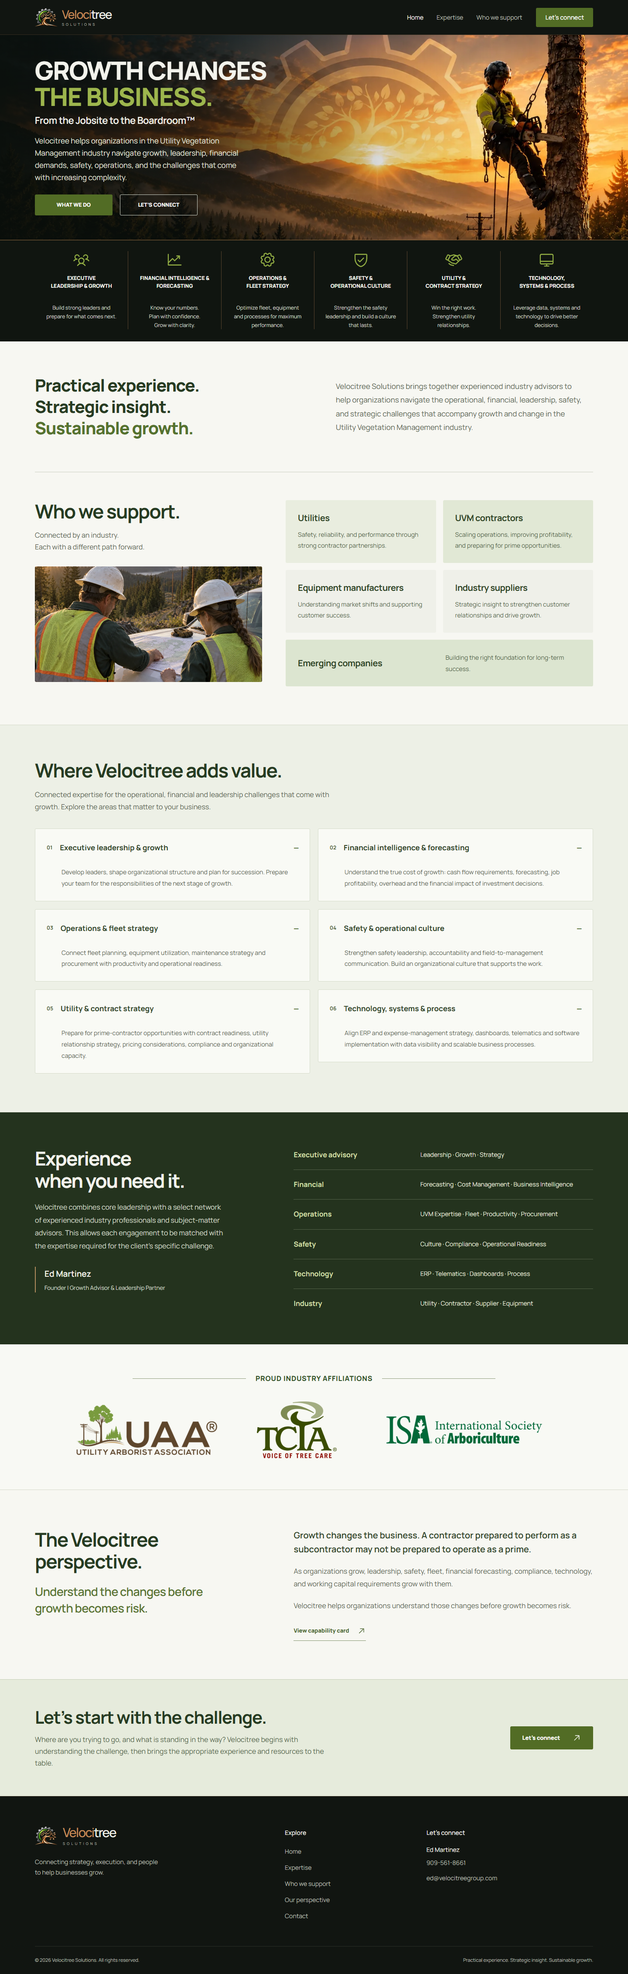
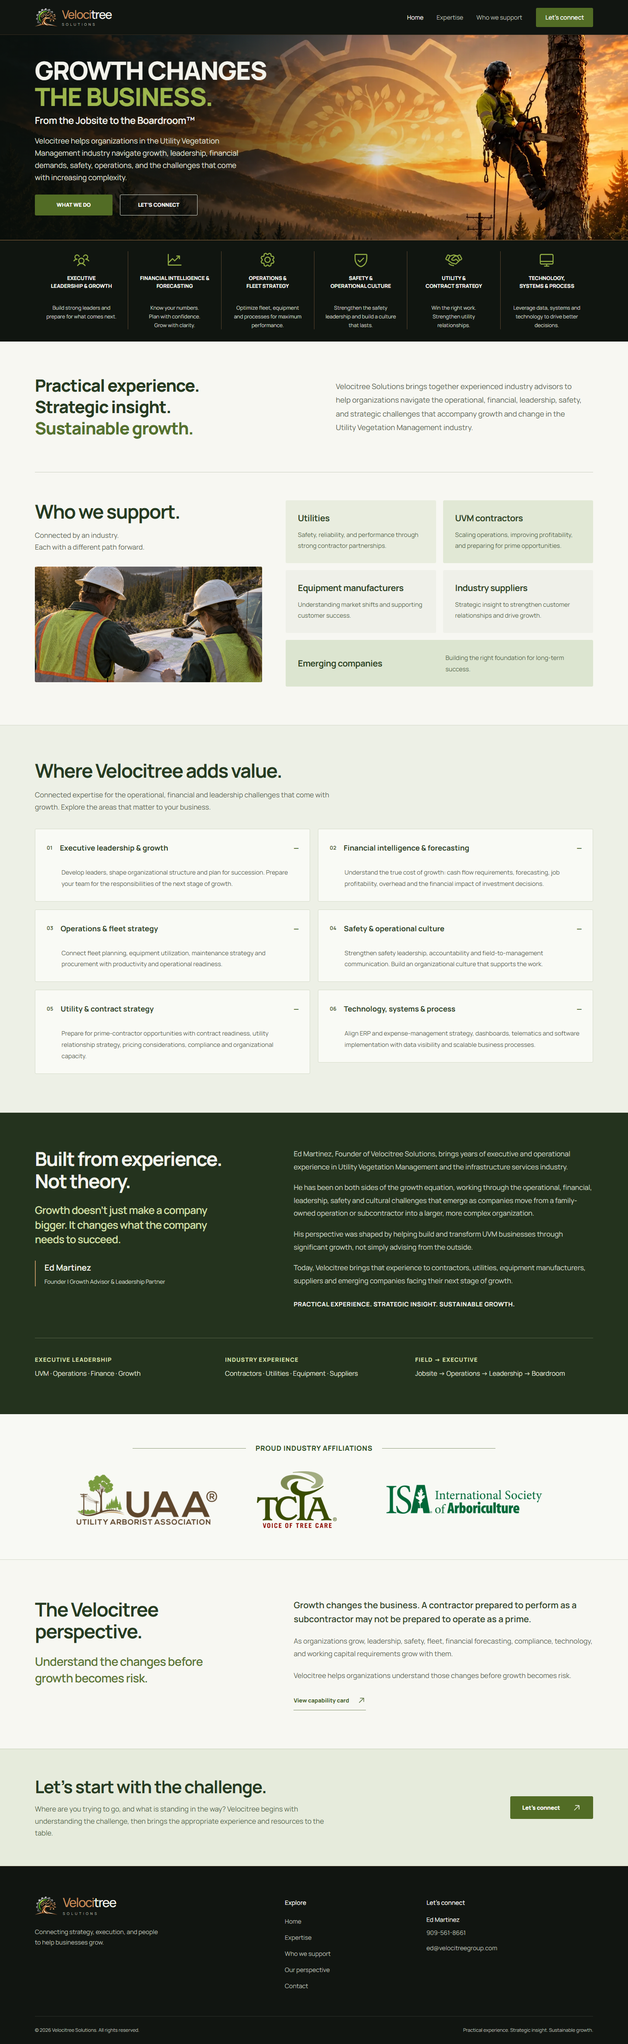
experience copy update

Changed region(s): [[0.0, 0.0, 1.0, 0.7475], [0.0, 0.7787, 1.0, 0.9655], [0.4688, 0.7787, 0.9375, 0.841]]

diff --git a/velocitree/preview/velocitree-home-preview.html b/velocitree/preview/velocitree-home-preview.html
@@ -195,16 +195,17 @@
   .vts-home .vts-experience { background: #24331e; color: #f3f3ec; padding-block: 80px; }
   .vts-home .vts-experience__layout { display: grid; grid-template-columns: .85fr 1.15fr; gap: 86px; align-items: start; }
   .vts-home .vts-experience .vts-section-title { color: #f3f3ec !important; }
-  .vts-home .vts-experience__intro { color: #d0d8c6 !important; max-width: 440px; font-size: 16px; margin-top: 22px; line-height: 1.85; }
+  .vts-home .vts-experience__copy p { color: #d0d8c6 !important; font-size: 16px; line-height: 1.85; margin-bottom: 18px; }
+  .vts-home .vts-experience__copy p:last-child { margin-bottom: 0; }
+  .vts-home .vts-experience__statement { margin-top: 25px; max-width: 420px; color: #d1dfa8 !important; font-size: 24px; font-weight: 600; line-height: 1.4; letter-spacing: -.03em; }
+  .vts-home .vts-experience__copy .vts-experience__promise { color: #f3f3ec !important; font-size: 14px; font-weight: 700; letter-spacing: .04em; text-transform: uppercase; margin-top: 26px; }
   .vts-home .vts-experience__advisor { margin-top: 32px; padding-left: 20px; border-left: 2px solid #b08b5d; }
   .vts-home .vts-experience__advisor strong { display: block; font-size: 19px; font-weight: 600; }
   .vts-home .vts-experience__advisor p { color: #d0d8c6 !important; font-size: 13px; margin-top: 5px; }
-  .vts-home .vts-network { display: grid; }
-  .vts-home .vts-network > div { display: grid; grid-template-columns: .8fr 1.2fr; gap: 26px; padding-block: 20px; border-bottom: 1px solid #526047; }
-  .vts-home .vts-network > div:first-child { padding-top: 4px; }
-  .vts-home .vts-network > div:last-child { border-bottom: 0; padding-bottom: 0; }
-  .vts-home .vts-network dt { color: #d1dfa8 !important; font-size: 16px; font-weight: 700; }
-  .vts-home .vts-network dd { color: #e0e5d8 !important; font-size: 14px; line-height: 1.8; }
+  .vts-home .vts-credentials { display: grid; grid-template-columns: repeat(3, 1fr); gap: 28px; margin-top: 64px; padding-top: 40px; border-top: 1px solid #526047; }
+  .vts-home .vts-credentials > div { min-width: 0; }
+  .vts-home .vts-credentials dt { color: #d1dfa8 !important; font-size: 13px; font-weight: 800; letter-spacing: .09em; line-height: 1.4; text-transform: uppercase; }
+  .vts-home .vts-credentials dd { color: #e0e5d8 !important; font-size: 15px; line-height: 1.7; margin-top: 10px; }
   .vts-home .vts-affiliations { padding-block: 68px 72px; background: #f8f9f4; border-bottom: 1px solid #d5dacb; }
   .vts-home .vts-affiliations__heading { display: flex; align-items: center; justify-content: center; gap: 22px; margin-bottom: 42px; }
   .vts-home .vts-affiliations__heading::before, .vts-home .vts-affiliations__heading::after { content: ''; flex: 1; max-width: 260px; height: 1px; background: #8f9d7b; }
@@ -271,7 +272,9 @@
     .vts-home .vts-expertise__item summary::after { right: 18px; }
     .vts-home .vts-expertise__item h3 { font-size: 16px; }
     .vts-home .vts-expertise__item p { padding: 0 23px 24px 49px; }
-    .vts-home .vts-experience__intro { font-size: 15px; }
+    .vts-home .vts-experience__copy p { font-size: 15px; }
+    .vts-home .vts-experience__statement { font-size: 21px; margin-top: 18px; }
+    .vts-home .vts-credentials { grid-template-columns: 1fr; gap: 22px; margin-top: 40px; padding-top: 30px; }
     .vts-home .vts-network > div { grid-template-columns: 1fr; gap: 6px; }
     .vts-home .vts-affiliations { padding-block: 50px; }
     .vts-home .vts-affiliations__heading { gap: 13px; margin-bottom: 30px; }
@@ -315,10 +318,10 @@
     .vts-hero .vts-hero__button { min-width: 145px; padding-inline: 17px; }
   }
   @media (max-width: 767px) {
-    .vts-hero .vts-hero__wrap { width: calc(100% - 40px); min-height: 690px; align-items: flex-start; padding-block: 37px 285px; }
+    .vts-hero .vts-hero__wrap { width: calc(100% - 40px); min-height: 840px; align-items: flex-end; padding-block: 150px 34px; }
     .vts-hero .vts-hero__copy { max-width: 100%; width: 100%; }
     .vts-hero .vts-hero__image { object-position: 85% 50%; }
-    .vts-hero::before { background: linear-gradient(180deg, rgba(10,15,11,.97), rgba(10,15,11,.9) 44%, rgba(10,15,11,.12) 75%, rgba(10,15,11,.25)); }
+    .vts-hero::before { background: linear-gradient(180deg, rgba(10,15,11,.42), rgba(10,15,11,.14) 22%, rgba(10,15,11,.16) 42%, rgba(10,15,11,.72) 55%, rgba(10,15,11,.95) 66%, rgba(10,15,11,.97)); }
     .vts-hero .vts-hero__title { font-size: clamp(30px, 8vw, 49px); line-height: 1.08; letter-spacing: -.035em; }
     .vts-hero .vts-hero__tagline { font-size: clamp(14px, 3.8vw, 20px); margin-top: 10px; }
     .vts-hero .vts-hero__description { max-width: 410px; font-size: 14px; line-height: 1.7; margin-top: 16px; }
@@ -481,19 +484,25 @@
   </section>
 
   <section class="vts-experience" aria-labelledby="vts-experience-title">
-    <div class="vts-wrap vts-experience__layout">
-      <div>
-        <h2 class="vts-section-title" id="vts-experience-title">Experience<br>when you need it.</h2>
-        <p class="vts-experience__intro">Velocitree combines core leadership with a select network of experienced industry professionals and subject-matter advisors. This allows each engagement to be matched with the expertise required for the client&rsquo;s specific challenge.</p>
-        <div class="vts-experience__advisor"><strong>Ed Martinez</strong><p>Founder | Growth Advisor &amp; Leadership Partner</p></div>
+    <div class="vts-wrap">
+      <div class="vts-experience__layout">
+        <div>
+          <h2 class="vts-section-title" id="vts-experience-title">Built from experience.<br>Not theory.</h2>
+          <p class="vts-experience__statement">Growth doesn&rsquo;t just make a company bigger. It changes what the company needs to succeed.</p>
+          <div class="vts-experience__advisor"><strong>Ed Martinez</strong><p>Founder | Growth Advisor &amp; Leadership Partner</p></div>
+        </div>
+        <div class="vts-experience__copy">
+          <p>Ed Martinez, Founder of Velocitree Solutions, brings years of executive and operational experience in Utility Vegetation Management and the infrastructure services industry.</p>
+          <p>He has been on both sides of the growth equation, working through the operational, financial, leadership, safety and cultural challenges that emerge as companies move from a family-owned operation or subcontractor into a larger, more complex organization.</p>
+          <p>His perspective was shaped by helping build and transform UVM businesses through significant growth, not simply advising from the outside.</p>
+          <p>Today, Velocitree brings that experience to contractors, utilities, equipment manufacturers, suppliers and emerging companies facing their next stage of growth.</p>
+          <p class="vts-experience__promise">Practical Experience. Strategic Insight. Sustainable Growth.</p>
+        </div>
       </div>
-      <dl class="vts-network">
-        <div><dt>Executive advisory</dt><dd>Leadership &middot; Growth &middot; Strategy</dd></div>
-        <div><dt>Financial</dt><dd>Forecasting &middot; Cost Management &middot; Business Intelligence</dd></div>
-        <div><dt>Operations</dt><dd>UVM Expertise &middot; Fleet &middot; Productivity &middot; Procurement</dd></div>
-        <div><dt>Safety</dt><dd>Culture &middot; Compliance &middot; Operational Readiness</dd></div>
-        <div><dt>Technology</dt><dd>ERP &middot; Telematics &middot; Dashboards &middot; Process</dd></div>
-        <div><dt>Industry</dt><dd>Utility &middot; Contractor &middot; Supplier &middot; Equipment</dd></div>
+      <dl class="vts-credentials">
+        <div><dt>Executive leadership</dt><dd>UVM &middot; Operations &middot; Finance &middot; Growth</dd></div>
+        <div><dt>Industry experience</dt><dd>Contractors &middot; Utilities &middot; Equipment &middot; Suppliers</dd></div>
+        <div><dt>Field &rarr; executive</dt><dd>Jobsite &rarr; Operations &rarr; Leadership &rarr; Boardroom</dd></div>
       </dl>
     </div>
   </section>

diff --git a/velocitree/home.html b/velocitree/home.html
@@ -58,16 +58,17 @@
   .vts-home .vts-experience { background: #24331e; color: #f3f3ec; padding-block: 80px; }
   .vts-home .vts-experience__layout { display: grid; grid-template-columns: .85fr 1.15fr; gap: 86px; align-items: start; }
   .vts-home .vts-experience .vts-section-title { color: #f3f3ec !important; }
-  .vts-home .vts-experience__intro { color: #d0d8c6 !important; max-width: 440px; font-size: 16px; margin-top: 22px; line-height: 1.85; }
+  .vts-home .vts-experience__copy p { color: #d0d8c6 !important; font-size: 16px; line-height: 1.85; margin-bottom: 18px; }
+  .vts-home .vts-experience__copy p:last-child { margin-bottom: 0; }
+  .vts-home .vts-experience__statement { margin-top: 25px; max-width: 420px; color: #d1dfa8 !important; font-size: 24px; font-weight: 600; line-height: 1.4; letter-spacing: -.03em; }
+  .vts-home .vts-experience__copy .vts-experience__promise { color: #f3f3ec !important; font-size: 14px; font-weight: 700; letter-spacing: .04em; text-transform: uppercase; margin-top: 26px; }
   .vts-home .vts-experience__advisor { margin-top: 32px; padding-left: 20px; border-left: 2px solid #b08b5d; }
   .vts-home .vts-experience__advisor strong { display: block; font-size: 19px; font-weight: 600; }
   .vts-home .vts-experience__advisor p { color: #d0d8c6 !important; font-size: 13px; margin-top: 5px; }
-  .vts-home .vts-network { display: grid; }
-  .vts-home .vts-network > div { display: grid; grid-template-columns: .8fr 1.2fr; gap: 26px; padding-block: 20px; border-bottom: 1px solid #526047; }
-  .vts-home .vts-network > div:first-child { padding-top: 4px; }
-  .vts-home .vts-network > div:last-child { border-bottom: 0; padding-bottom: 0; }
-  .vts-home .vts-network dt { color: #d1dfa8 !important; font-size: 16px; font-weight: 700; }
-  .vts-home .vts-network dd { color: #e0e5d8 !important; font-size: 14px; line-height: 1.8; }
+  .vts-home .vts-credentials { display: grid; grid-template-columns: repeat(3, 1fr); gap: 28px; margin-top: 64px; padding-top: 40px; border-top: 1px solid #526047; }
+  .vts-home .vts-credentials > div { min-width: 0; }
+  .vts-home .vts-credentials dt { color: #d1dfa8 !important; font-size: 13px; font-weight: 800; letter-spacing: .09em; line-height: 1.4; text-transform: uppercase; }
+  .vts-home .vts-credentials dd { color: #e0e5d8 !important; font-size: 15px; line-height: 1.7; margin-top: 10px; }
   .vts-home .vts-affiliations { padding-block: 68px 72px; background: #f8f9f4; border-bottom: 1px solid #d5dacb; }
   .vts-home .vts-affiliations__heading { display: flex; align-items: center; justify-content: center; gap: 22px; margin-bottom: 42px; }
   .vts-home .vts-affiliations__heading::before, .vts-home .vts-affiliations__heading::after { content: ''; flex: 1; max-width: 260px; height: 1px; background: #8f9d7b; }
@@ -134,7 +135,9 @@
     .vts-home .vts-expertise__item summary::after { right: 18px; }
     .vts-home .vts-expertise__item h3 { font-size: 16px; }
     .vts-home .vts-expertise__item p { padding: 0 23px 24px 49px; }
-    .vts-home .vts-experience__intro { font-size: 15px; }
+    .vts-home .vts-experience__copy p { font-size: 15px; }
+    .vts-home .vts-experience__statement { font-size: 21px; margin-top: 18px; }
+    .vts-home .vts-credentials { grid-template-columns: 1fr; gap: 22px; margin-top: 40px; padding-top: 30px; }
     .vts-home .vts-network > div { grid-template-columns: 1fr; gap: 6px; }
     .vts-home .vts-affiliations { padding-block: 50px; }
     .vts-home .vts-affiliations__heading { gap: 13px; margin-bottom: 30px; }
@@ -182,10 +185,10 @@
     .vts-hero .vts-hero__button { min-width: 145px; padding-inline: 17px; }
   }
   @media (max-width: 767px) {
-    .vts-hero .vts-hero__wrap { width: calc(100% - 40px); min-height: 690px; align-items: flex-start; padding-block: 37px 285px; }
+    .vts-hero .vts-hero__wrap { width: calc(100% - 40px); min-height: 840px; align-items: flex-end; padding-block: 150px 34px; }
     .vts-hero .vts-hero__copy { max-width: 100%; width: 100%; }
     .vts-hero .vts-hero__image { object-position: 85% 50%; }
-    .vts-hero::before { background: linear-gradient(180deg, rgba(10,15,11,.97), rgba(10,15,11,.9) 44%, rgba(10,15,11,.12) 75%, rgba(10,15,11,.25)); }
+    .vts-hero::before { background: linear-gradient(180deg, rgba(10,15,11,.42), rgba(10,15,11,.14) 22%, rgba(10,15,11,.16) 42%, rgba(10,15,11,.72) 55%, rgba(10,15,11,.95) 66%, rgba(10,15,11,.97)); }
     .vts-hero .vts-hero__title { font-size: clamp(30px, 8vw, 49px); line-height: 1.08; letter-spacing: -.035em; }
     .vts-hero .vts-hero__tagline { font-size: clamp(14px, 3.8vw, 20px); margin-top: 10px; }
     .vts-hero .vts-hero__description { max-width: 410px; font-size: 14px; line-height: 1.7; margin-top: 16px; }
@@ -267,19 +270,25 @@
   </section>
 
   <section class="vts-experience" aria-labelledby="vts-experience-title">
-    <div class="vts-wrap vts-experience__layout">
-      <div>
-        <h2 class="vts-section-title" id="vts-experience-title">Experience<br>when you need it.</h2>
-        <p class="vts-experience__intro">Velocitree combines core leadership with a select network of experienced industry professionals and subject-matter advisors. This allows each engagement to be matched with the expertise required for the client&rsquo;s specific challenge.</p>
-        <div class="vts-experience__advisor"><strong>Ed Martinez</strong><p>Founder | Growth Advisor &amp; Leadership Partner</p></div>
+    <div class="vts-wrap">
+      <div class="vts-experience__layout">
+        <div>
+          <h2 class="vts-section-title" id="vts-experience-title">Built from experience.<br>Not theory.</h2>
+          <p class="vts-experience__statement">Growth doesn&rsquo;t just make a company bigger. It changes what the company needs to succeed.</p>
+          <div class="vts-experience__advisor"><strong>Ed Martinez</strong><p>Founder | Growth Advisor &amp; Leadership Partner</p></div>
+        </div>
+        <div class="vts-experience__copy">
+          <p>Ed Martinez, Founder of Velocitree Solutions, brings years of executive and operational experience in Utility Vegetation Management and the infrastructure services industry.</p>
+          <p>He has been on both sides of the growth equation, working through the operational, financial, leadership, safety and cultural challenges that emerge as companies move from a family-owned operation or subcontractor into a larger, more complex organization.</p>
+          <p>His perspective was shaped by helping build and transform UVM businesses through significant growth, not simply advising from the outside.</p>
+          <p>Today, Velocitree brings that experience to contractors, utilities, equipment manufacturers, suppliers and emerging companies facing their next stage of growth.</p>
+          <p class="vts-experience__promise">Practical Experience. Strategic Insight. Sustainable Growth.</p>
+        </div>
       </div>
-      <dl class="vts-network">
-        <div><dt>Executive advisory</dt><dd>Leadership &middot; Growth &middot; Strategy</dd></div>
-        <div><dt>Financial</dt><dd>Forecasting &middot; Cost Management &middot; Business Intelligence</dd></div>
-        <div><dt>Operations</dt><dd>UVM Expertise &middot; Fleet &middot; Productivity &middot; Procurement</dd></div>
-        <div><dt>Safety</dt><dd>Culture &middot; Compliance &middot; Operational Readiness</dd></div>
-        <div><dt>Technology</dt><dd>ERP &middot; Telematics &middot; Dashboards &middot; Process</dd></div>
-        <div><dt>Industry</dt><dd>Utility &middot; Contractor &middot; Supplier &middot; Equipment</dd></div>
+      <dl class="vts-credentials">
+        <div><dt>Executive leadership</dt><dd>UVM &middot; Operations &middot; Finance &middot; Growth</dd></div>
+        <div><dt>Industry experience</dt><dd>Contractors &middot; Utilities &middot; Equipment &middot; Suppliers</dd></div>
+        <div><dt>Field &rarr; executive</dt><dd>Jobsite &rarr; Operations &rarr; Leadership &rarr; Boardroom</dd></div>
       </dl>
     </div>
   </section>

diff --git a/velocitree/hero.html b/velocitree/hero.html
@@ -26,10 +26,10 @@
     .vts-hero .vts-hero__button { min-width: 145px; padding-inline: 17px; }
   }
   @media (max-width: 767px) {
-    .vts-hero .vts-hero__wrap { width: calc(100% - 40px); min-height: 690px; align-items: flex-start; padding-block: 37px 285px; }
+    .vts-hero .vts-hero__wrap { width: calc(100% - 40px); min-height: 840px; align-items: flex-end; padding-block: 150px 34px; }
     .vts-hero .vts-hero__copy { max-width: 100%; width: 100%; }
     .vts-hero .vts-hero__image { object-position: 85% 50%; }
-    .vts-hero::before { background: linear-gradient(180deg, rgba(10,15,11,.97), rgba(10,15,11,.9) 44%, rgba(10,15,11,.12) 75%, rgba(10,15,11,.25)); }
+    .vts-hero::before { background: linear-gradient(180deg, rgba(10,15,11,.42), rgba(10,15,11,.14) 22%, rgba(10,15,11,.16) 42%, rgba(10,15,11,.72) 55%, rgba(10,15,11,.95) 66%, rgba(10,15,11,.97)); }
     .vts-hero .vts-hero__title { font-size: clamp(30px, 8vw, 49px); line-height: 1.08; letter-spacing: -.035em; }
     .vts-hero .vts-hero__tagline { font-size: clamp(14px, 3.8vw, 20px); margin-top: 10px; }
     .vts-hero .vts-hero__description { max-width: 410px; font-size: 14px; line-height: 1.7; margin-top: 16px; }

diff --git a/velocitree/tools/qa_browser.py b/velocitree/tools/qa_browser.py
@@ -131,6 +131,15 @@ with sync_playwright() as p:
         # The emblem keys to transparency; a stray opaque field would break the dark bar.
         assert emblem.evaluate('(e)=>e.naturalWidth') <= 156
         report['checks'].append(f'{label}: hero serves {expect_hero} and the emblem serves {expect_emblem}')
+        if label == 'phone':
+            # The climber's head and torso occupy 24-55% of the frame, so the copy must stay
+            # clear of that band; it is anchored to the bottom of the mobile hero for that reason.
+            hero_box = art_page.locator('.vts-hero').bounding_box()
+            copy_box = art_page.locator('.vts-hero__copy').bounding_box()
+            copy_top = (copy_box['y'] - hero_box['y']) / hero_box['height']
+            assert copy_top >= 0.58, copy_top
+            assert copy_box['y'] + copy_box['height'] <= hero_box['y'] + hero_box['height'], copy_box
+            report['checks'].append(f'phone: hero copy starts at {copy_top:.0%}, clearing the climber')
         art.close()
     assert '[fluentform id="1"]' in (ROOT / 'contact.html').read_text(encoding='utf-8')
     navigate(page, 'contact')

diff --git a/velocitree/README.md b/velocitree/README.md
@@ -90,7 +90,7 @@ The latest September 9 redesign follows the client's hero reference: uppercase t
 
 See `content-audit.md` for a section-by-section comparison against the capability card, including restored content.
 
-Displayed images ship as WebP derivatives generated from the supplied originals, which stay in the repository. The header and footer emblem comes from `vts logo only 9.11.webp`: the pure-black field is flood-filled from the edges to transparency (so dark pixels inside the artwork survive), trimmed to the content box, and written at 52x42, 104x84 and 156x126 for 1x/2x/3x `srcset`. Because the field is transparent and pre-trimmed, the emblem no longer needs the radial mask and negative-offset crop the previous square logo required. The hero comes from `VTS climber with logo in sun.webp` at 640, 960, 1280 and 1672 wide (q86 below 1280, q82 at and above). Phones get art direction instead: at 480px and under, a `<picture>` source serves `vts-hero-mobile.webp`, a 640x941 portrait crop taken at the same 85% horizontal position the mobile `object-position` used, with `object-position` reset to centre for that source. The mobile box is 100vw by ~690px, so `object-fit: cover` scales by height and only ~532 source pixels are ever visible; the crop carries exactly those pixels at 86KB instead of 184KB for the full frame, at identical rendered sharpness. Above 480px the width ladder applies with `sizes="(max-width: 767px) 1226px, 100vw"`, the 1226px accounting for that same cover-crop rather than the element width. A local Lighthouse mobile audit of the earlier build scored 68 performance, 100 accessibility and 96 best practices, with 0 ms total blocking time and 0.001 layout shift; simulated LCP was 6.6 seconds, so production hosting, caching and further font optimization still need separate verification. The standalone previews intentionally remain noindex.
+Displayed images ship as WebP derivatives generated from the supplied originals, which stay in the repository. The header and footer emblem comes from `vts logo only 9.11.webp`: the pure-black field is flood-filled from the edges to transparency (so dark pixels inside the artwork survive), trimmed to the content box, and written at 52x42, 104x84 and 156x126 for 1x/2x/3x `srcset`. Because the field is transparent and pre-trimmed, the emblem no longer needs the radial mask and negative-offset crop the previous square logo required. The hero comes from `VTS climber with logo in sun.webp` at 640, 960, 1280 and 1672 wide (q86 below 1280, q82 at and above). Phones get art direction instead: at 480px and under, a `<picture>` source serves `vts-hero-mobile.webp`, a 640x941 portrait crop taken at the same 85% horizontal position the mobile `object-position` used, with `object-position` reset to centre for that source. The mobile box is 100vw by ~690px, so `object-fit: cover` scales by height and only ~532 source pixels are ever visible; the crop carries exactly those pixels at 86KB instead of 184KB for the full frame, at identical rendered sharpness. On phones the copy is anchored to the bottom of an 840px hero rather than the top. The climber's head and torso sit at 24-55% of the frame and the source puts the head only 24% down, so no crop or `object-position` can push the subject below a top-aligned copy block; moving the copy is the only way to clear it. The mobile gradient is flipped to match, staying light over the subject and reaching full strength by 66%, which measures 16:1 or better against white text across the whole copy band. Above 480px the width ladder applies with `sizes="(max-width: 767px) 1226px, 100vw"`, the 1226px accounting for that same cover-crop rather than the element width. A local Lighthouse mobile audit of the earlier build scored 68 performance, 100 accessibility and 96 best practices, with 0 ms total blocking time and 0.001 layout shift; simulated LCP was 6.6 seconds, so production hosting, caching and further font optimization still need separate verification. The standalone previews intentionally remain noindex.
 
 Image preparation used the built-in image-generation tool:
 
@@ -100,6 +100,6 @@ Image preparation used the built-in image-generation tool:
 
 ## Deployment verification
 
-Local validation covers 7 HTML files for GitPress boundaries, IDs, asset references and navigation; 41 Chrome browser checks cover both pages at 320, 390, 768, 1024 and 1440px, with and without JavaScript, plus native disclosures, the pinned mobile bar, the single-line header call to action and its resilience against theme CSS overrides, responsive hero and emblem source selection by viewport and pixel ratio, contact navigation, keyboard skip links, reduced-motion rendering, service deep links and the form preview boundary. Full screenshots and `qa-report.json` are in `preview/`. Browser verification can be rerun with `python velocitree/tools/qa_browser.py` after installing the optional `playwright` Python package; it uses installed Google Chrome.
+Local validation covers 7 HTML files for GitPress boundaries, IDs, asset references and navigation; 42 Chrome browser checks cover both pages at 320, 390, 768, 1024 and 1440px, with and without JavaScript, plus native disclosures, the pinned mobile bar, the single-line header call to action and its resilience against theme CSS overrides, responsive hero and emblem source selection by viewport and pixel ratio, contact navigation, keyboard skip links, reduced-motion rendering, service deep links and the form preview boundary. Full screenshots and `qa-report.json` are in `preview/`. Browser verification can be rerun with `python velocitree/tools/qa_browser.py` after installing the optional `playwright` Python package; it uses installed Google Chrome.
 
 This package is prepared locally. Live WordPress rendering, GitPress sanitization/caching and form integration require the target WordPress site. After deploying, confirm the fragment version markers, exactly one header/footer, fonts and images, native FAQ behavior, mobile layout and SEO settings. Purge GitPress’s content cache if the deployed marker is stale.

diff --git a/velocitree/content-audit.md b/velocitree/content-audit.md
@@ -13,7 +13,8 @@ Checked visually against `reference/VTS Capability Card.png` on September 9, 202
 | Safety & Operational Culture | `#safety` | Safety leadership, accountability, field-to-management communication and organizational culture |
 | Utility & Contract Strategy | `#contracts` | Contract readiness, utility relationships, prime-contractor preparation, pricing, compliance and organizational capacity |
 | Technology, Systems & Process | `#technology` | ERP, expense management, dashboards, telematics, implementation, data visibility and scalable processes |
-| Experience when you need it | Experience section | Full explanation of core leadership and the select advisor network; all six specialty groups now visible |
+| Built from experience, not theory | Experience section | Client-supplied founder narrative in full; the growth statement is pulled out beside the heading and the brand promise closes the column |
+| Executive leadership, industry experience, field to executive | Experience section | Three supplied credential groups in a row beneath the narrative; replaces the earlier six-row advisor-specialty list |
 | Executive advisory specialties | Experience section | Leadership, Growth, Strategy |
 | Financial specialties | Experience section | Forecasting, Cost Management, Business Intelligence |
 | Operations specialties | Experience section | UVM Expertise, Fleet, Productivity, Procurement |
